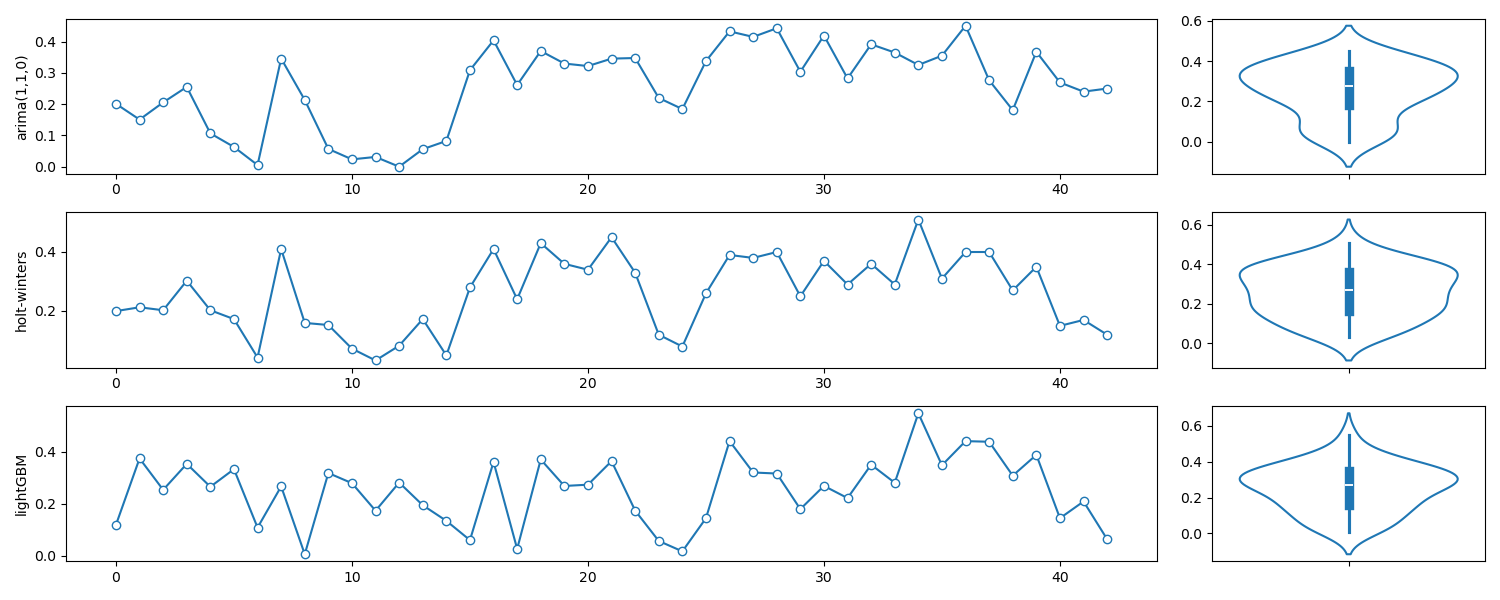
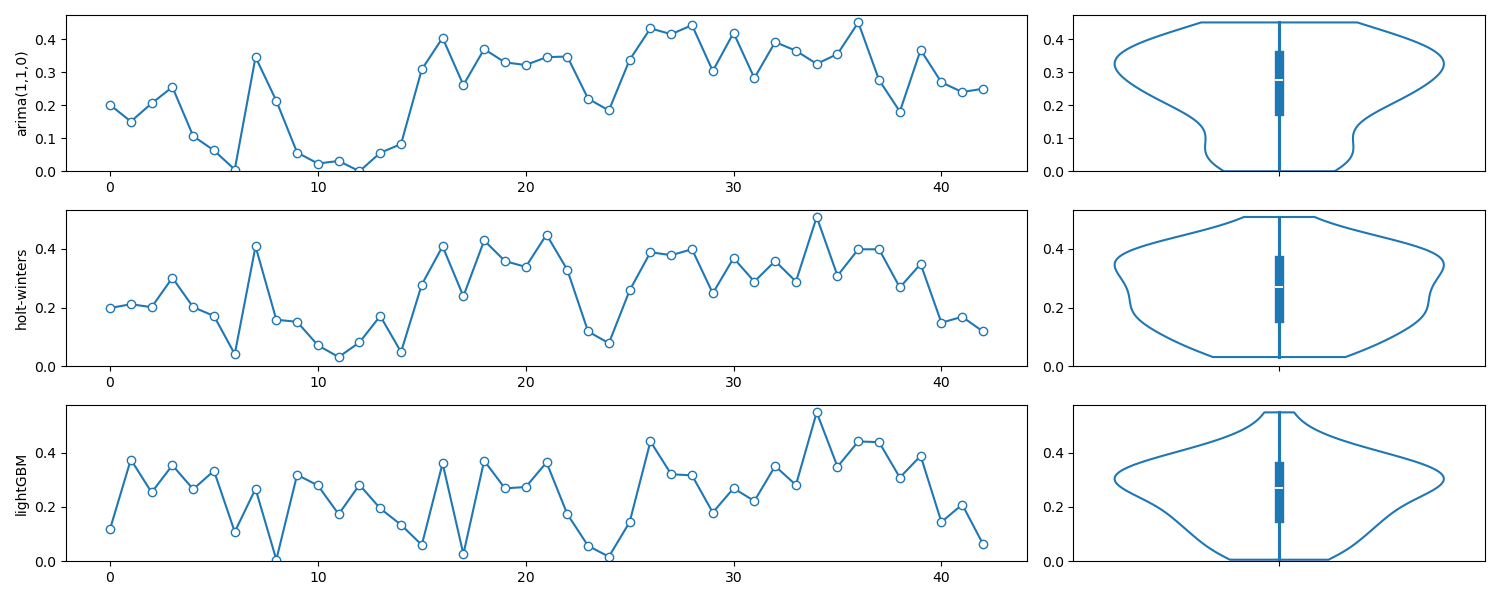
On branch main Your branch is up to date with 'origin/main'.
Changes to be committed:
	modified:   experiments/plotting.py
	modified:   experiments/price/stability.py
	modified:   experiments_plots/violin_linien_plots/price_AE.png
	modified:   utils/errors.py
	modified:   utils/metrics.py

diff --git a/utils/metrics.py b/utils/metrics.py
@@ -3,7 +3,7 @@ import numpy as np
 import errors
 
 # 1. metrics of goodness of fit
-#   1.1 Scale dependent errors
+#   1.1 Scale dependent measures
 #       MAE
 #       MdAE
 #       MSE
@@ -27,7 +27,7 @@ def root_mean_squared_error(y_true: np.ndarray, y_pred: np.ndarray):
     return np.sqrt(mse(y_true, y_pred))
 rmse = root_mean_squared_error
 
-#   1.2 percentage errors
+#   1.2 measures based on percentage errors
 #       MAPE
 #       MdAPE
 #       RMSPE
@@ -52,11 +52,60 @@ def root_median_squared_percentage_error(y_true: np.ndarray, y_pred: np.ndarray)
     return np.sqrt(np.median(spe))
 rmdspe = root_median_squared_percentage_error
 
-#   1.3 symmetric errors
+#   1.3 measures based on symmetric errors
 #       sMAPE
 #       sMdAPE
 #       msMAPE
+def symmetric_MAPE(y_true: np.ndarray, y_pred: np.ndarray):
+    sape = errors.symmetric_absolute_percentage_error(y_true, y_pred)
+    return np.mean(100 * sape)
 
+def symmetric_MdAPE(y_true: np.ndarray, y_pred: np.ndarray):
+    sape = errors.symmetric_absolute_percentage_error(y_true, y_pred)
+    return np.mean(100 * sape)
+
+def modified_sMAPE(y_true: np.ndarray, y_pred: np.ndarray):
+    msape = errors.modified_symmetric_absolute_percentage_error(y_true, y_pred)
+    return np.mean(msape)
+
+#   1.4 measures based on relative errors
+#       MRAE
+#       MdRAE
+#       GMRAE
+def mean_relative_absolute_error(y_true: np.ndarray, y_pred: np.ndarray, bm_pred: np.ndarray) -> np.ndarray:
+    rae = errors.relative_absolute_error(y_true, y_pred,bm_pred)
+    return np.mean(rae)
+mrae = mean_relative_absolute_error
+
+def median_relative_absolute_error(y_true: np.ndarray, y_pred: np.ndarray, bm_pred: np.ndarray) -> np.ndarray:
+    rae = errors.relative_absolute_error(y_true, y_pred,bm_pred)
+    return np.median(rae)
+mdrae = median_relative_absolute_error
+
+def geometric_mean_relative_absolute_error(y_true: np.ndarray, y_pred: np.ndarray, bm_pred: np.ndarray) -> np.ndarray:
+    rae = errors.relative_absolute_error(y_true, y_pred,bm_pred)
+    return np.exp(np.mean(np.log(rae)))
+gmrae = geometric_mean_relative_absolute_error
+
+#   1.5 relative measures
+#       RMAE
+#       RRMSE
+#       LMR
+def relative_MAE(y_true: np.ndarray, y_pred: np.ndarray, bm_pred: np.ndarray) -> np.ndarray:
+    return mae(y_true, y_pred)/mae(y_true, bm_pred)
+
+def relative_RMSE(y_true: np.ndarray, y_pred: np.ndarray, bm_pred: np.ndarray) -> np.ndarray:
+    return rmse(y_true, y_pred)/rmse(y_true, bm_pred)
+
+import math
+def log_mean_squared_error_ratio(y_true: np.ndarray, y_pred: np.ndarray, bm_pred: np.ndarray) -> np.ndarray:
+    return math.log(relative_RMSE(y_true, y_pred, bm_pred))
+lmr = log_mean_squared_error_ratio
+
+
+#   1.6 measures based on scaled errors
+#       MASE
+#       RMSSE
 
 # 2. metrics of biasedness
 

diff --git a/experiments/plotting.py b/experiments/plotting.py
@@ -1,32 +1,32 @@
 #!/usr/bin/env python3
 import matplotlib.pyplot as plt
 import seaborn as sns
-
+import numpy as np
 from numpy.typing import ArrayLike
-def line_violin_plotting(save_path:str, dataset_0: ArrayLike, dataset_1: ArrayLike, 
-               dataset_2: ArrayLike, ylabel_0: str, ylabel_1: str, ylabel_2: str):
+
+def __outliers(arr: ArrayLike):
+    q1, q3 = np.percentile(arr, [25, 75])
+    whisk_l = q1 - (q3 - q1) * 1.5
+    whisk_h = q3 + (q3 - q1) * 1.5
+    return arr[(arr < whisk_l)|(arr > whisk_h)]
+
+def line_violin_plotting(save_path:str, ylabels: list[str], *errors: ArrayLike):
     fig = plt.figure(figsize=(15, 6))
-    gs = plt.GridSpec(3, 2, width_ratios=[4, 1])
-
-    ax00 = plt.subplot(gs[0,0])
-    ax00.plot(dataset_0, marker='o', markerfacecolor='white')
-    ax00.set_ylabel(ylabel_0)
-    ax01 = plt.subplot(gs[0,1])
-    sns.violinplot(data=dataset_0, ax=ax01, fill=False)
-
-    ax10 = plt.subplot(gs[1,0])
-    ax10.plot(dataset_1, marker='o', markerfacecolor='white')
-    ax10.set_ylabel(ylabel_1)
-    ax11 = plt.subplot(gs[1,1])
-    sns.violinplot(data=dataset_1, ax=ax11, fill=False)
-
-    ax20 = plt.subplot(gs[2,0])
-    ax20.plot(dataset_2, marker='o', markerfacecolor='white')
-    ax20.set_ylabel(ylabel_2)
-    ax21 = plt.subplot(gs[2,1])
-    sns.violinplot(data=dataset_2, ax=ax21, fill=False)
-
+    ncols = 2
+    gs = plt.GridSpec(len(errors), ncols, width_ratios=[3.5, 1.5])
+    gs_x = 0
+    gs_y = 0
+    for e in errors:
+        ax0 = plt.subplot(gs[gs_y,gs_x])
+        ax0.plot(e, marker='o', markerfacecolor='white')
+        ax0.set_ylabel(ylabels[gs_y])
+        plt.ylim(int(min(e)))
+        ax1 = plt.subplot(gs[gs_y,gs_x + 1])
+        sns.violinplot(data=e, ax=ax1, fill=False, cut=0)
+        sns.scatterplot(data=__outliers(e), markers='o', ax=ax1)
+        plt.ylim(int(min(e)))
+        gs_y += 1
+    
     plt.tight_layout()
     fig.show()
     fig.savefig(save_path)
-

diff --git a/utils/errors.py b/utils/errors.py
@@ -19,16 +19,38 @@ def squared_error(y_true: np.ndarray, y_pred: np.ndarray) -> np.ndarray:
 
 def absolute_percentage_error(y_true: np.ndarray, y_pred: np.ndarray) -> np.ndarray:
     __input_check(y_true, y_pred)
-    percentage_error = 100*(y_true - y_pred)/y_true
+    percentage_error = np.true_divide(100*(y_true - y_pred), y_true)
     return np.abs(percentage_error)
 
 def squared_percentage_error(y_true: np.ndarray, y_pred: np.ndarray) -> np.ndarray:
     __input_check(y_true, y_pred)
-    percentage_error = 100*(y_true - y_pred)/y_true
+    percentage_error = np.true_divide(100*(y_true - y_pred), y_true)
     return np.square(percentage_error)
 
 def symmetric_absolute_percentage_error(y_true: np.ndarray, y_pred: np.ndarray) -> np.ndarray:
     __input_check(y_true, y_pred)
+    diff = np.abs(y_true - y_pred)
+    sum = np.abs(y_true) + np.abs(y_pred)
+    return 2*np.true_divide(diff, sum)
+
+def modified_symmetric_absolute_percentage_error(y_true: np.ndarray, y_pred: np.ndarray) -> np.ndarray:
+    __input_check(y_true, y_pred)
+    diff = np.abs(y_true - y_pred)
+    n = len(y_true)
+    cumsum_y = np.cumsum(y_true)
+    cumsum_y = cumsum_y[:n-1]
+    cumsum_divisor = np.linspace(1, n-1, n-1)
+    mean_cumsum_y = np.true_divide(cumsum_y, cumsum_divisor)
+    s = np.zeros(n)
+    for i in range(1,n):
+        pref_y = y_true[:i]
+        sum_abs = np.sum(np.abs(pref_y - mean_cumsum_y[i-1]))
+        s[i] = np.true_divide(sum_abs, i)
+    sum = np.abs(y_true) + np.abs(y_pred)
+    divisor = np.true_divide(sum, 2) + s
+    return np.true_divide(diff, divisor)
+
+def relative_absolute_error(y_true: np.ndarray, y_pred: np.ndarray, bm_pred: np.ndarray) -> np.ndarray:
     diff = y_true - y_pred
-    sum = y_true + y_pred
-    return 200*np.abs(diff/sum)
+    diff_bm = y_true - bm_pred
+    return np.abs(np.true_divide(diff, diff_bm))

diff --git a/experiments/price/stability.py b/experiments/price/stability.py
@@ -24,7 +24,7 @@ ae_gbm = errors.absolute_error(arr_true, arr_pred_gbm)
 sys.path.append("..")
 import plotting
 save_path = '../../experiments_plots/violin_linien_plots/price_AE.png'
-plotting.line_violin_plotting(save_path, ae_arima110, ae_holt, ae_gbm, 'arima(1,1,0)', 'holt-winters', 'lightGBM')
+plotting.line_violin_plotting(save_path, ['arima(1,1,0)', 'holt-winters', 'lightGBM'], ae_arima110, ae_holt, ae_gbm)
 
 # variance
 var_ae_arima110 = np.var(ae_arima110)
